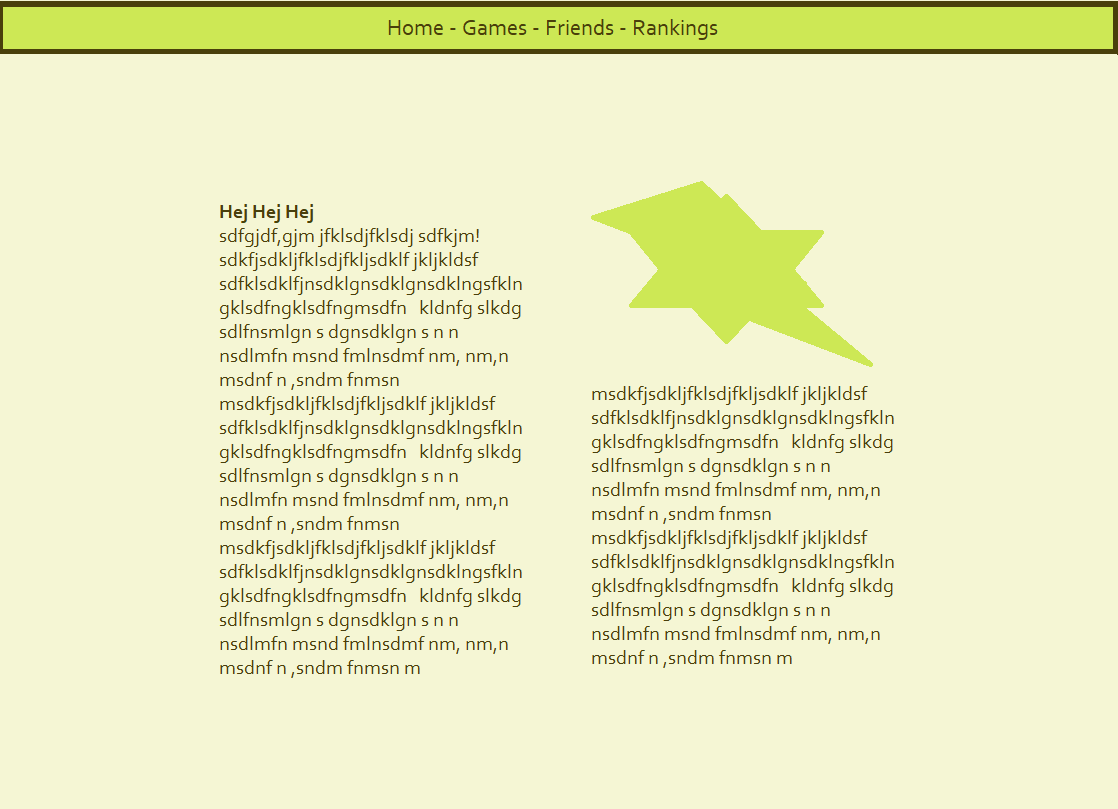
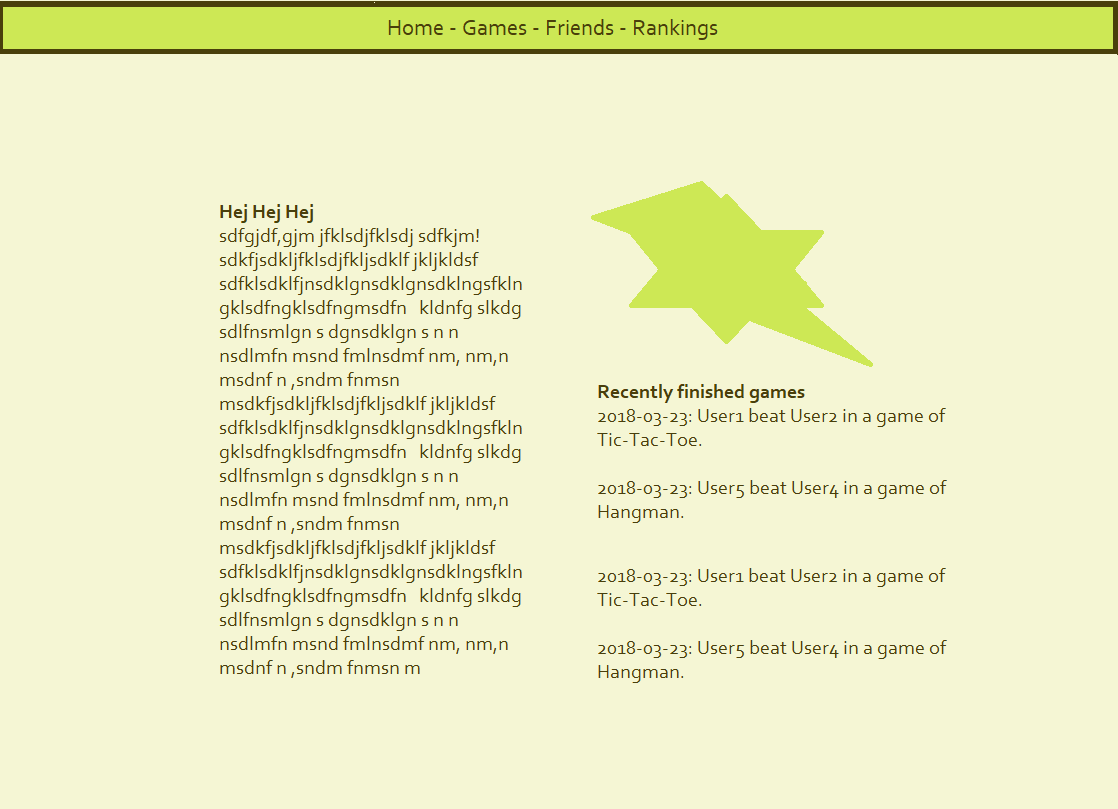
Added Navbar

Changed region(s): [[0.517, 0.4635, 0.8515, 0.8344]]

diff --git a/Slutprojekt/Slutprojekt/wwwroot/Scripts/Bootstrap_style.scss b/Slutprojekt/Slutprojekt/wwwroot/Scripts/Bootstrap_style.scss
@@ -1,0 +1,95 @@
+$primary-bg: #F5F6D4;
+$secondary-bg: #CDE855;
+$primary-header: #493F0B;
+$text-color: #493F0B;
+$contrast: #85DB18;
+$backup: #A7C520;
+
+/* navbar */
+.navbar-default {
+	background-color: $secondary-bg;
+	border-color: $primary-header;
+}
+/* Title */
+.navbar-default .navbar-brand {
+	color: $primary-header;
+	font-size: large;
+	font-family: 'Comic Sans MS';
+}
+
+.navbar-default .navbar-brand:hover,
+.navbar-default .navbar-brand:focus {
+	color: $primary-header;
+}
+/* Link */
+.navbar-default .navbar-nav > li > a {
+	color: $primary-header;
+	font-size: large;
+	font-family: 'Comic Sans MS';
+}
+
+.navbar-default .navbar-nav > li > a:hover,
+.navbar-default .navbar-nav > li > a:focus {
+	color: $primary-header;
+	font-size: large;
+	font-family: 'Comic Sans MS';
+}
+
+.navbar-default .navbar-nav > .active > a,
+.navbar-default .navbar-nav > .active > a:hover,
+.navbar-default .navbar-nav > .active > a:focus {
+	color: $primary-header;
+	background-color: darken($secondary-bg, 20%);
+	font-size:large;
+	font-family:'Comic Sans MS';
+}
+
+.navbar-default .navbar-nav > .open > a,
+.navbar-default .navbar-nav > .open > a:hover,
+.navbar-default .navbar-nav > .open > a:focus {
+	color: $primary-header;
+	background-color: $contrast;
+	//background-color: darken($secondary-bg, 50);
+}
+/* Caret */
+.navbar-default .navbar-nav > .dropdown > a .caret {
+	border-top-color: #777;
+	border-bottom-color: #777;
+}
+
+.navbar-default .navbar-nav > .dropdown > a:hover .caret,
+.navbar-default .navbar-nav > .dropdown > a:focus .caret {
+	border-top-color: #333;
+	border-bottom-color: #333;
+}
+
+.navbar-default .navbar-nav > .open > a .caret,
+.navbar-default .navbar-nav > .open > a:hover .caret,
+.navbar-default .navbar-nav > .open > a:focus .caret {
+	border-top-color: #555;
+	border-bottom-color: #555;
+}
+/* Mobile version */
+.navbar-default .navbar-toggle {
+	border-color: #DDD;
+}
+
+.navbar-default .navbar-toggle:hover,
+.navbar-default .navbar-toggle:focus {
+	background-color: #DDD;
+}
+
+.navbar-default .navbar-toggle .icon-bar {
+	background-color: #CCC;
+}
+
+@media (max-width: 767px) {
+	.navbar-default .navbar-nav .open .dropdown-menu > li > a {
+		color: #777;
+	}
+
+	.navbar-default .navbar-nav .open .dropdown-menu > li > a:hover,
+	.navbar-default .navbar-nav .open .dropdown-menu > li > a:focus {
+		color: #333;
+	}
+}

diff --git a/Slutprojekt/Slutprojekt/wwwroot/Scripts/Bootstrap_style.css b/Slutprojekt/Slutprojekt/wwwroot/Scripts/Bootstrap_style.css
@@ -1,0 +1,74 @@
+/* navbar */
+.navbar-default {
+  background-color: #CDE855;
+  border-color: #493F0B; }
+
+/* Title */
+.navbar-default .navbar-brand {
+  color: #493F0B;
+  font-size: large;
+  font-family: 'Comic Sans MS'; }
+
+.navbar-default .navbar-brand:hover,
+.navbar-default .navbar-brand:focus {
+  color: #493F0B; }
+
+/* Link */
+.navbar-default .navbar-nav > li > a {
+  color: #493F0B;
+  font-size: large;
+  font-family: 'Comic Sans MS'; }
+
+.navbar-default .navbar-nav > li > a:hover,
+.navbar-default .navbar-nav > li > a:focus {
+  color: #493F0B;
+  font-size: large;
+  font-family: 'Comic Sans MS'; }
+
+.navbar-default .navbar-nav > .active > a,
+.navbar-default .navbar-nav > .active > a:hover,
+.navbar-default .navbar-nav > .active > a:focus {
+  color: #493F0B;
+  background-color: #9fbd1a;
+  font-size: large;
+  font-family: 'Comic Sans MS'; }
+
+.navbar-default .navbar-nav > .open > a,
+.navbar-default .navbar-nav > .open > a:hover,
+.navbar-default .navbar-nav > .open > a:focus {
+  color: #493F0B;
+  background-color: #85DB18; }
+
+/* Caret */
+.navbar-default .navbar-nav > .dropdown > a .caret {
+  border-top-color: #777;
+  border-bottom-color: #777; }
+
+.navbar-default .navbar-nav > .dropdown > a:hover .caret,
+.navbar-default .navbar-nav > .dropdown > a:focus .caret {
+  border-top-color: #333;
+  border-bottom-color: #333; }
+
+.navbar-default .navbar-nav > .open > a .caret,
+.navbar-default .navbar-nav > .open > a:hover .caret,
+.navbar-default .navbar-nav > .open > a:focus .caret {
+  border-top-color: #555;
+  border-bottom-color: #555; }
+
+/* Mobile version */
+.navbar-default .navbar-toggle {
+  border-color: #DDD; }
+
+.navbar-default .navbar-toggle:hover,
+.navbar-default .navbar-toggle:focus {
+  background-color: #DDD; }
+
+.navbar-default .navbar-toggle .icon-bar {
+  background-color: #CCC; }
+
+@media (max-width: 767px) {
+  .navbar-default .navbar-nav .open .dropdown-menu > li > a {
+    color: #777; }
+  .navbar-default .navbar-nav .open .dropdown-menu > li > a:hover,
+  .navbar-default .navbar-nav .open .dropdown-menu > li > a:focus {
+    color: #333; } }

diff --git a/Slutprojekt/Slutprojekt/wwwroot/Scripts/Bootstrap_style.min.css b/Slutprojekt/Slutprojekt/wwwroot/Scripts/Bootstrap_style.min.css
@@ -1,0 +1,1 @@
+.navbar-default{background-color:#cde855;border-color:#493f0b;}.navbar-default .navbar-brand{color:#493f0b;font-size:large;font-family:'Comic Sans MS';}.navbar-default .navbar-brand:hover,.navbar-default .navbar-brand:focus{color:#493f0b;}.navbar-default .navbar-nav>li>a{color:#493f0b;font-size:large;font-family:'Comic Sans MS';}.navbar-default .navbar-nav>li>a:hover,.navbar-default .navbar-nav>li>a:focus{color:#493f0b;font-size:large;font-family:'Comic Sans MS';}.navbar-default .navbar-nav>.active>a,.navbar-default .navbar-nav>.active>a:hover,.navbar-default .navbar-nav>.active>a:focus{color:#493f0b;background-color:#9fbd1a;font-size:large;font-family:'Comic Sans MS';}.navbar-default .navbar-nav>.open>a,.navbar-default .navbar-nav>.open>a:hover,.navbar-default .navbar-nav>.open>a:focus{color:#493f0b;background-color:#85db18;}.navbar-default .navbar-nav>.dropdown>a .caret{border-top-color:#777;border-bottom-color:#777;}.navbar-default .navbar-nav>.dropdown>a:hover .caret,.navbar-default .navbar-nav>.dropdown>a:focus .caret{border-top-color:#333;border-bottom-color:#333;}.navbar-default .navbar-nav>.open>a .caret,.navbar-default .navbar-nav>.open>a:hover .caret,.navbar-default .navbar-nav>.open>a:focus .caret{border-top-color:#555;border-bottom-color:#555;}.navbar-default .navbar-toggle{border-color:#ddd;}.navbar-default .navbar-toggle:hover,.navbar-default .navbar-toggle:focus{background-color:#ddd;}.navbar-default .navbar-toggle .icon-bar{background-color:#ccc;}@media(max-width:767px){.navbar-default .navbar-nav .open .dropdown-menu>li>a{color:#777;}.navbar-default .navbar-nav .open .dropdown-menu>li>a:hover,.navbar-default .navbar-nav .open .dropdown-menu>li>a:focus{color:#333;}}
